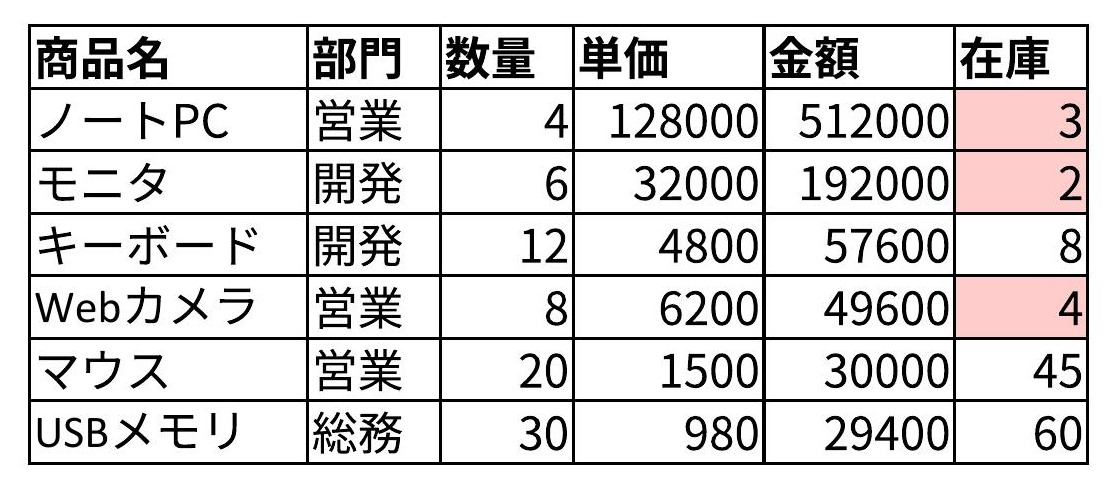
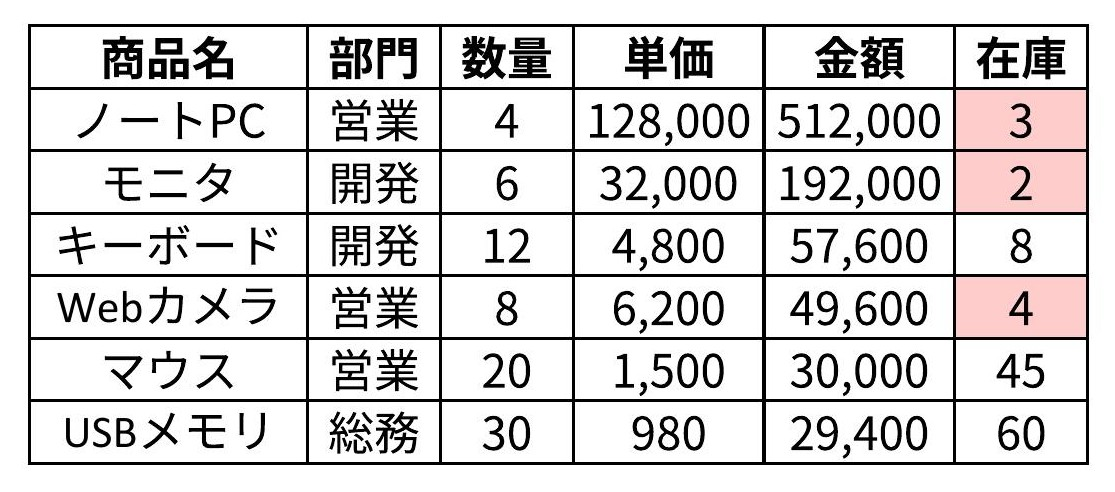
ailine LP: 1枚目の注文表を中央揃え＋金額カンマ区切りに更新
ailine 経由で AlignCenter / FormatThousands を適用した結果に差し替え。
太字見出し・罫線・低在庫の色は生存。画像参照は ?v=2 でキャッシュ破棄。

diff --git a/ailine.html b/ailine.html
@@ -57,7 +57,7 @@
   </div>
 </section>
 
-<div class="band"><figure class="mat"><img src="assets/ailine-workflow.jpg" alt="自然言語の8つの指示だけで、単価の引き当て・金額計算・見出しの太字・低在庫の色付け・降順の並べ替え・罫線・列幅調整まで済んだ注文表"></figure></div>
+<div class="band"><figure class="mat"><img src="assets/ailine-workflow.jpg?v=2" alt="自然言語の8つの指示だけで、単価の引き当て・金額計算・見出しの太字・低在庫の色付け・降順の並べ替え・罫線・列幅調整まで済んだ注文表"></figure></div>
 <p class="cap">この表は、自然言語の指示 <b>8 つ</b>だけで作りました ― 単価の引き当て（VLOOKUP）・金額の計算・見出しの太字・低在庫の色付け・降順の並べ替え・罫線・列幅。Excel は使っていません</p>
 
 <section class="sec alt" id="how">

diff --git a/ailine.en.html b/ailine.en.html
@@ -57,7 +57,7 @@
   </div>
 </section>
 
-<div class="band"><figure class="mat"><img src="assets/ailine-workflow.jpg" alt="An order sheet where eight plain-language instructions filled in unit prices, computed amounts, bolded the header, colored low stock, sorted descending, added borders, and fit the columns"></figure></div>
+<div class="band"><figure class="mat"><img src="assets/ailine-workflow.jpg?v=2" alt="An order sheet where eight plain-language instructions filled in unit prices, computed amounts, bolded the header, colored low stock, sorted descending, added borders, and fit the columns"></figure></div>
 <p class="cap">This table was built from just <b>8 plain-language instructions</b>: look up the unit prices (VLOOKUP), compute the amounts, bold the header, color the low stock, sort descending, add borders, fit the columns. No Excel used.</p>
 
 <section class="sec alt" id="how">
